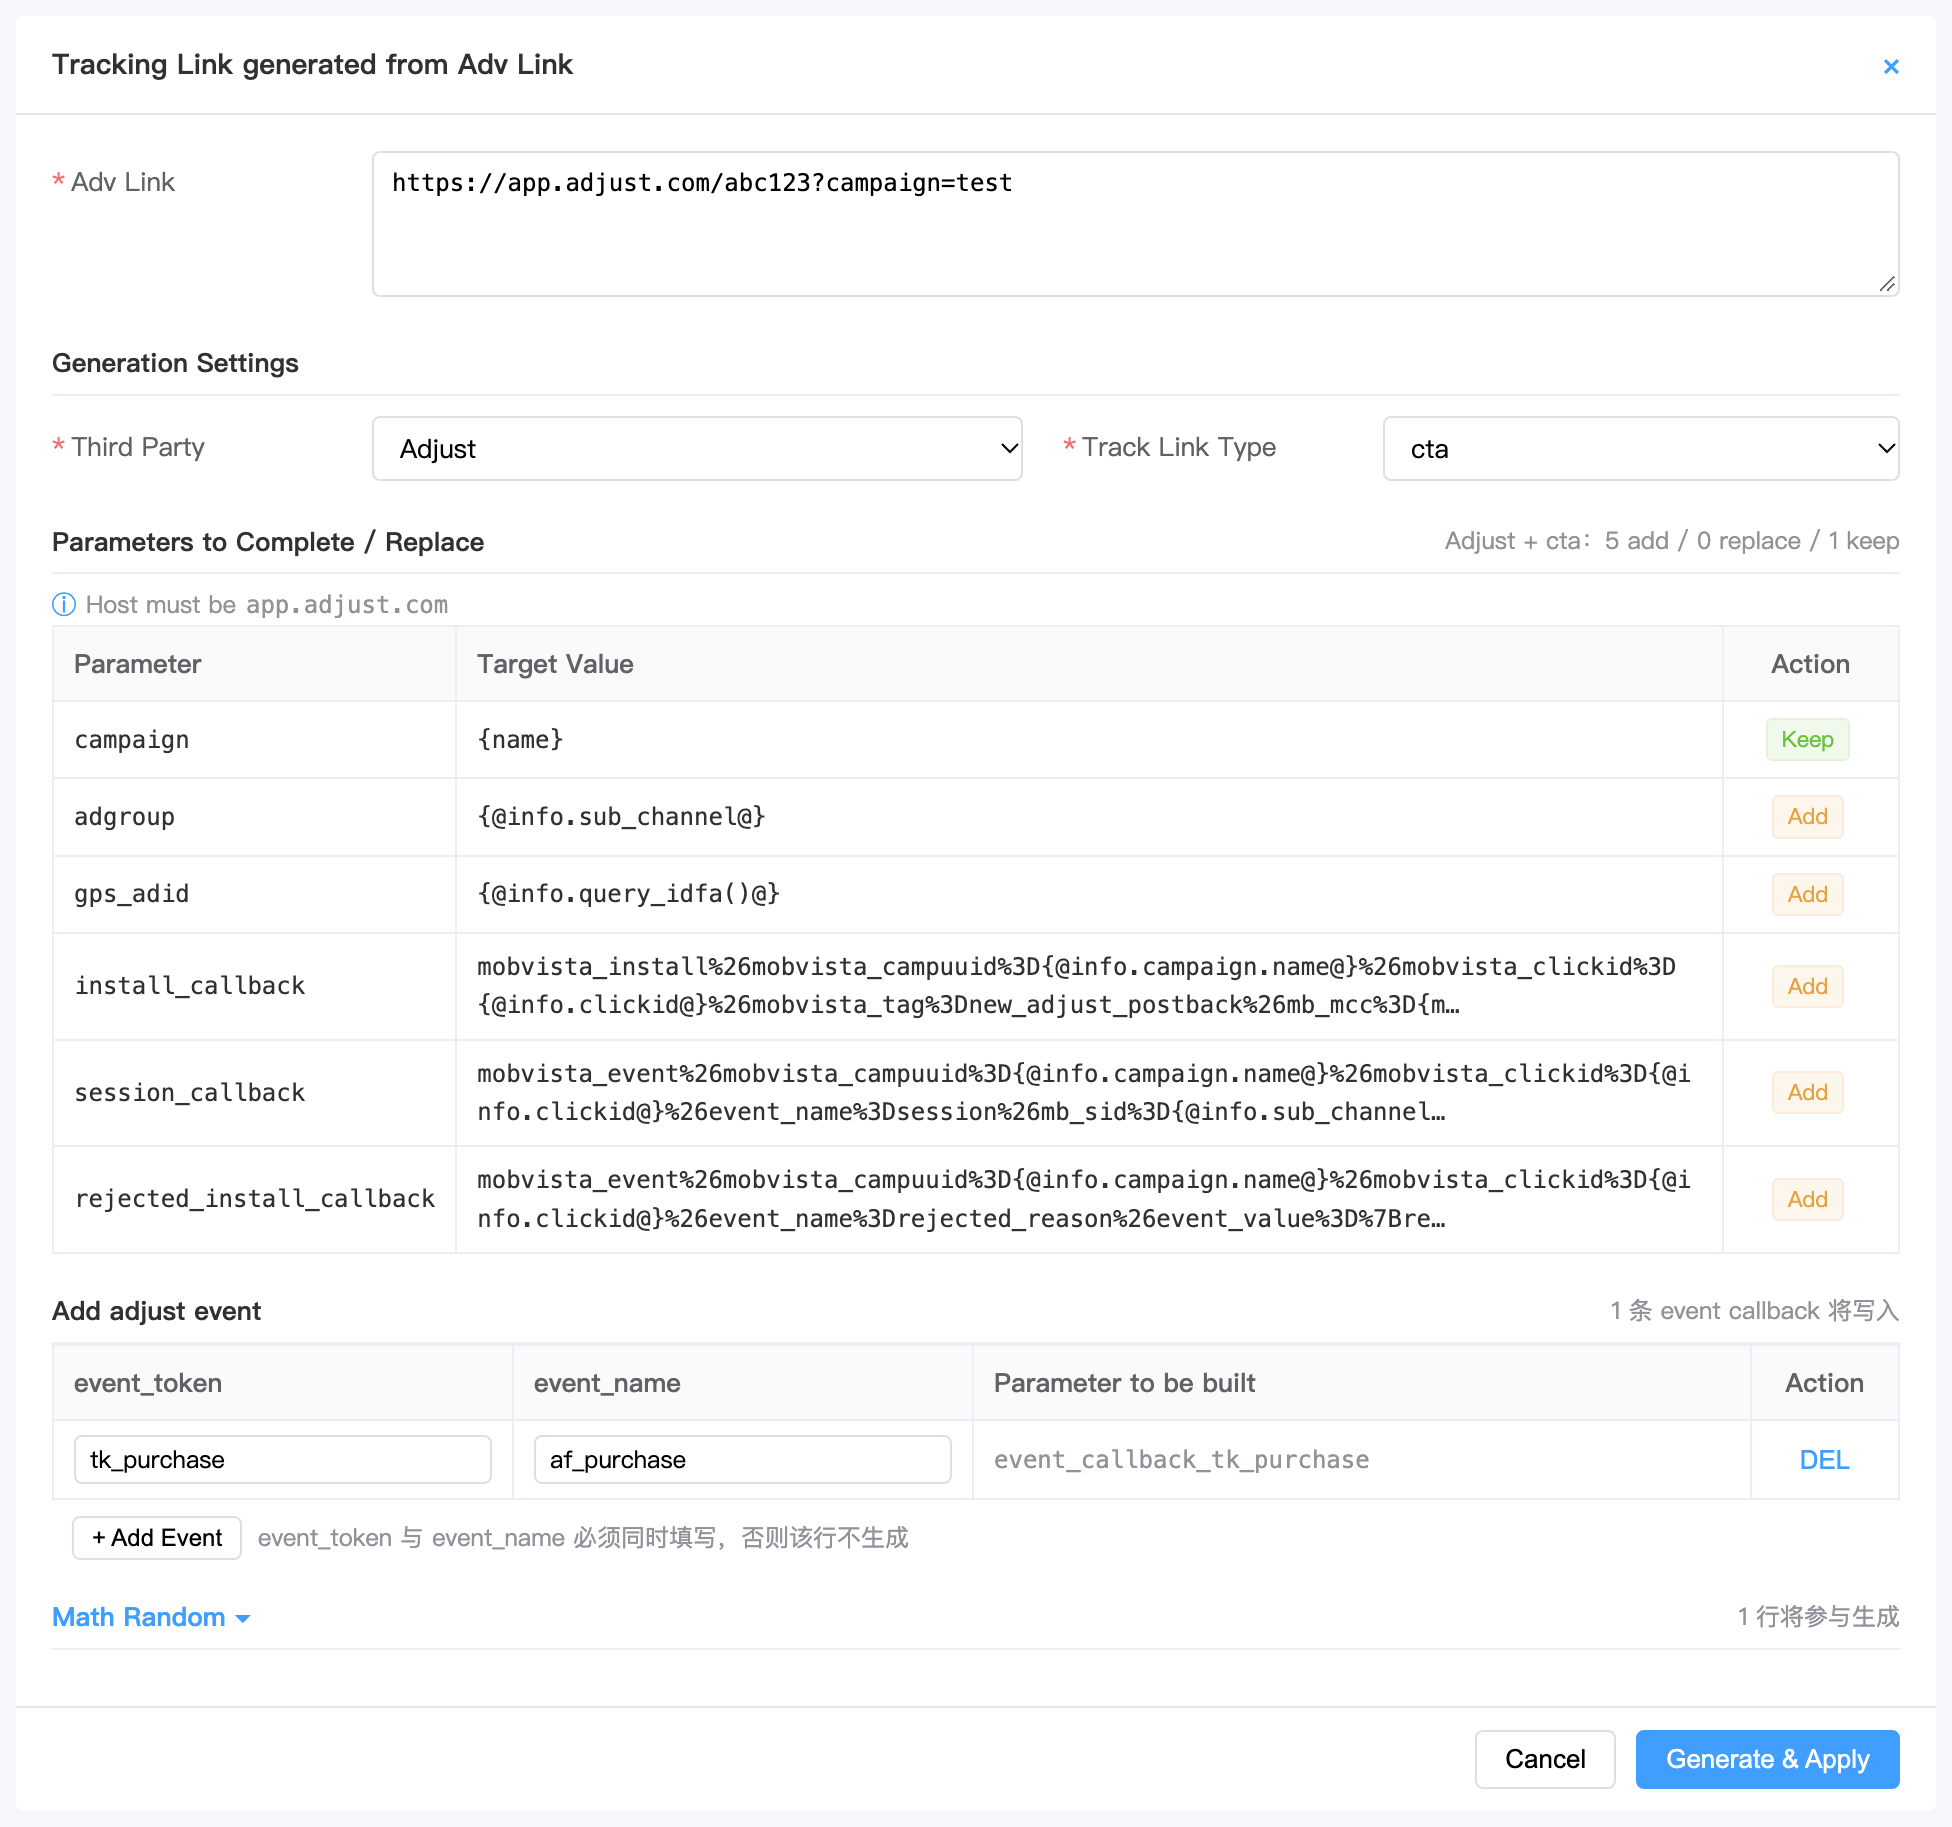
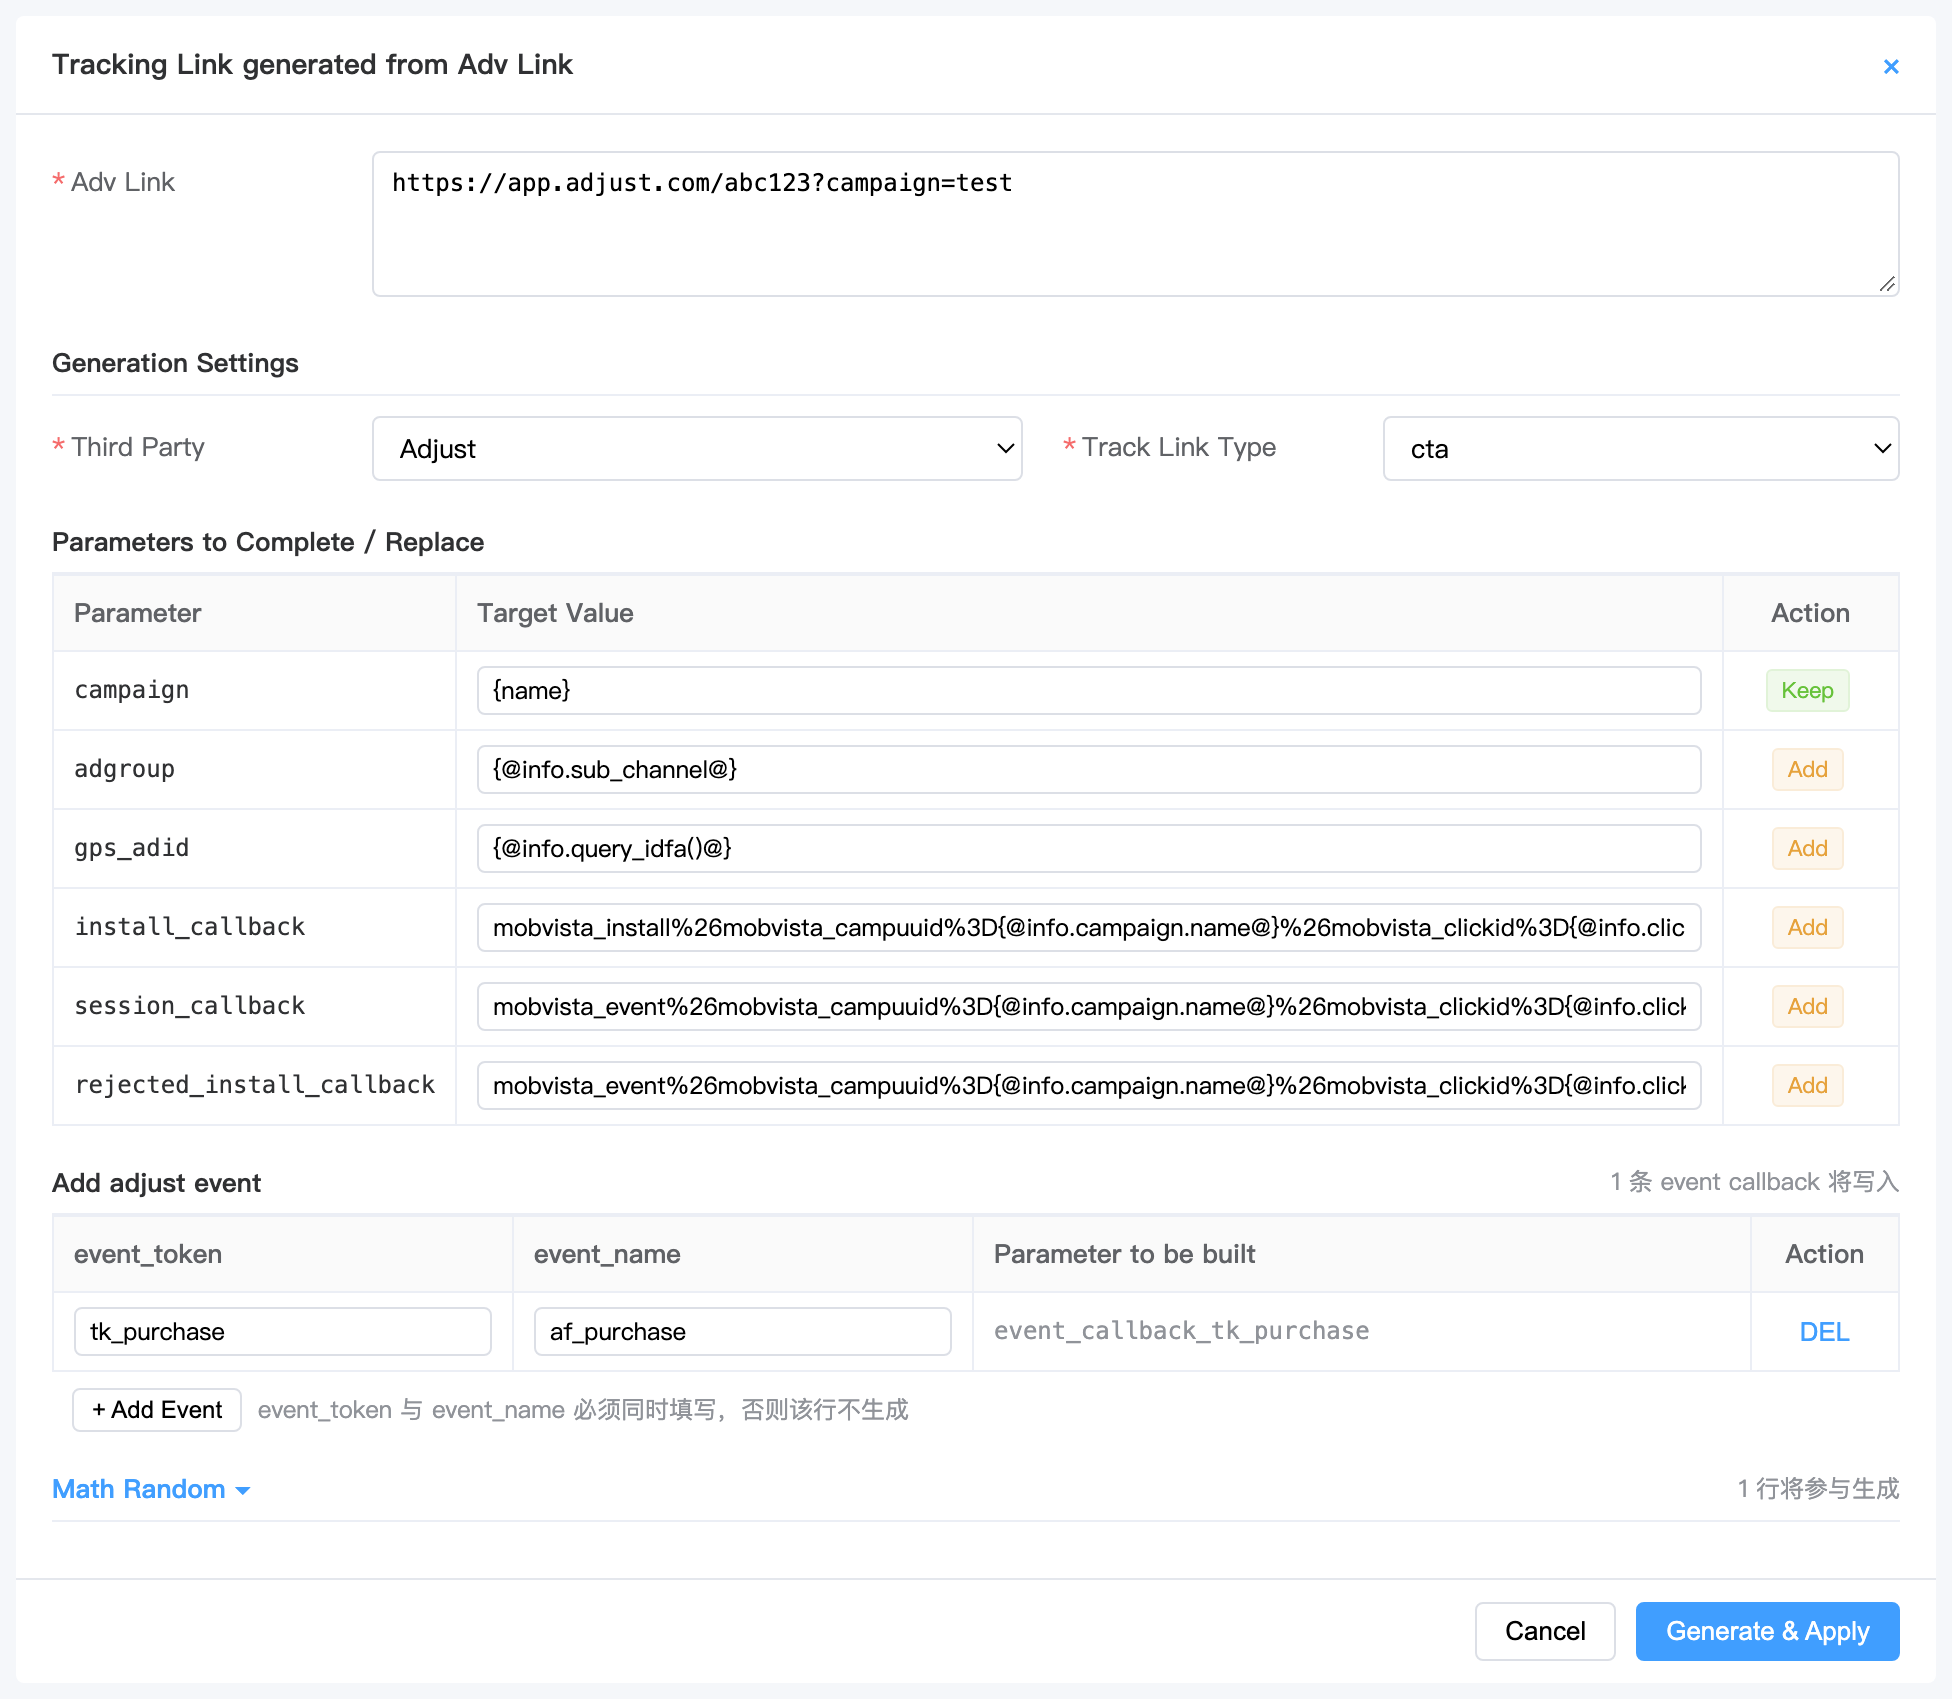
v6: single Auto-generated button inside Offer Name (aligns Offer UUID with Budget type), drop placeholder notes/New badge/parse count/host hint/sample-city note/column numbering, editable Target Value

diff --git a/create-offer/index.html b/create-offer/index.html
@@ -172,7 +172,7 @@ const SECS = [
   { k: 'settle',     name: 'Settlement Info',          note: 'Adv / Channel settlement split' },
   { k: 'cap',        name: 'Cap Info',                 note: 'Per-item OPEN switch' },
   { k: 'target',     name: 'Target Info',              note: 'Quick geo select + lazy region / city loading' },
-  { k: 'tracking',   name: 'Tracking Info',            note: 'Generate from Adv Link + parsing', nw: 1 },
+  { k: 'tracking',   name: 'Tracking Info',            note: 'Generate from Adv Link + parsing' },
   { k: 'creative',   name: 'Creative Info',            note: 'Relaxed checks + auto-crop' },
   { k: 'integration',name: 'Integration Info',         note: 'Auto-S2S click cap + cross-offer BT' },
 ];
@@ -355,7 +355,18 @@ function reqParams() {
   const base = (r.required || []).map((x) => Object.assign({}, x));
   /* engaged click / engaged view 的 clickid 取 extend_clickid */
   if (ext.clickid) base.forEach((x) => { if (x.k === 'clickid') x.v = ext.clickid; });
-  return base.concat(ext.extra || []);
+  /* 弹窗里手改过的目标值优先 */
+  const ov = (t.param_override || {})[t.third_party + '|' + t.track_link_type] || {};
+  return base.concat(ext.extra || []).map((x) => (ov[x.k] == null ? x : Object.assign({}, x, { v: ov[x.k] })));
+}
+/* 记下手改的目标值：按 Third Party + Track Link Type 分开存，切换组合不互相干扰 */
+function setParamTarget(k, v) {
+  const t = form.tracking;
+  const key = t.third_party + '|' + t.track_link_type;
+  t.param_override = t.param_override || {};
+  t.param_override[key] = t.param_override[key] || {};
+  t.param_override[key][k] = v;
+  openGenerate();
 }
 /* 该组合要求的域名：link type 上有定义就用它，否则回落到 MMP 的默认 click / view host */
 function wantHostOf(kind) {
@@ -475,7 +486,9 @@ const form = {
     },
     rand_custom: [],
     /* Add adjust event：仅 Third Party=Adjust 时展示，每行构建一条 event callback */
-    adj_events: [{ token:'', name:'' }] } ,
+    adj_events: [{ token:'', name:'' }],
+    /* 弹窗里手改过的参数目标值：{ 'appsflyer|cta': { af_click_lookback:'14d' } } */
+    param_override: {} } ,
   /* 自动对接：默认接入；渠道固定 mobpower_api_pub 仅展示，两个 cap 可编辑后带入对接
      cap 默认值文档标注「待确认」，这里先给演示值 */
   integration: { auto_channel:1, auto_channel_name:'mobpower_api_pub', click_cap:50000, channel_cap:20000 },
@@ -989,9 +1002,9 @@ function geoSelector() {
 
   let h = '<div class="geo3" style="grid-template-columns:270px 1fr 1.15fr">';
 
-  /* ---- ① Geo：勾选即 Target Geo，点击行下钻并加载 region ---- */
+  /* ---- Geo：勾选即 Target Geo，点击行下钻并加载 region ---- */
   const clist = COUNTRY_LIST.filter(([c, n]) => !qc || c.toLowerCase().includes(qc) || n.toLowerCase().includes(qc));
-  h += '<div><div class="ch"><span>① Geo</span></div>'
+  h += '<div><div class="ch"><span>Geo</span></div>'
     + '<input class="srch" placeholder="Search country code or name" value="' + esc(g3.qCountry) + '" oninput="g3.qCountry=this.value;render()">'
     + '<div class="cb">'
     + (clist.length ? clist.map(([c, n]) => {
@@ -1004,11 +1017,11 @@ function geoSelector() {
       }).join('') : '<div class="gi gray">No matching country</div>')
     + '</div></div>';
 
-  /* ---- ② Region：点国家才加载，加载即全选；点击行下钻并加载 city ---- */
+  /* ---- Region：点国家才加载，加载即全选；点击行下钻并加载 city ---- */
   const rs = regionsOf(cc);
   const regs = rs.filter((r) => !qr || r.name.includes(qr));
   const loadedR = !!t.loadedR[cc];
-  h += '<div><div class="ch"><span>② Region</span>'
+  h += '<div><div class="ch"><span>Region</span>'
     /* 评审反馈：region 选择器右上角单独一个开关 */
     + '<label class="chk" style="margin:0;font-size:11px;white-space:nowrap" title="取消B类渠道Region和City定向限制">'
     + '<input type="checkbox" ' + (t.cancel_b_limit ? 'checked' : '')
@@ -1030,12 +1043,12 @@ function geoSelector() {
     }).join('');
   h += '</div></div>';
 
-  /* ---- ③ City：最低层级，只勾选不展示子层级情况 ---- */
+  /* ---- City：最低层级，只勾选不展示子层级情况 ---- */
   if (curR && !t.loadedC[cc + '|' + curR.rid]) loadCities(cc, curR.rid);
   const loadedC = !!curR;
   const cities = curR ? curR.cities.filter((x) => !qy || x.name.includes(qy)) : [];
   const picked = curR ? (m[curR.rid] === 'all' ? curR.cities.map((x) => x.id) : (m[curR.rid] || [])) : [];
-  h += '<div><div class="ch"><span>③ City</span>'
+  h += '<div><div class="ch"><span>City</span>'
     /* 评审反馈：city 选择器右上角单独一个开关 */
     + '<label class="chk" style="margin:0;font-size:11px;white-space:nowrap" title="开启Region和City定向限制，对点击进行过滤">'
     + '<input type="checkbox" ' + (t.geo_click_filter ? 'checked' : '')
@@ -1049,7 +1062,7 @@ function geoSelector() {
     h += cities.map((x) => '<div class="gi"><label class="chk" style="margin:0;flex:1">'
       + '<input type="checkbox" ' + (picked.includes(x.id) ? 'checked' : '') + ' onchange="pickCity(\'' + cc + '\',\'' + curR.rid + '\',\'' + x.id + '\',this.checked)">'
       + esc(x.name) + '</label><span class="mt mono gray">' + x.id + '</span></div>').join('');
-    h += '<div class="gi gray small">Prototype ships ' + curR.cities.length + ' sample cities of the ' + curR.total + ' in this region</div>';
+
   }
   h += '</div></div>';
 
@@ -1258,7 +1271,6 @@ function paramPlanTable() {
   const cur = {};
   if (p.ok) (p.params || []).forEach((x) => { cur[x.k] = x.v; });
   const list = reqParams().filter((x) => !x.os || x.os === primaryOS());
-  const host = wantHostOf('click');
   const plan = list.map((x) => {
     const have = Object.prototype.hasOwnProperty.call(cur, x.k);
     /* mode=fill 的参数只要存在就不动；其余要求值与目标一致 */
@@ -1266,19 +1278,15 @@ function paramPlanTable() {
     if (have) act = (x.mode === 'fill' || cur[x.k] === x.v) ? 'keep' : 'replace';
     return { k:x.k, v:x.v, act:act, now: have ? cur[x.k] : '' };
   });
-  const nAdd = plan.filter((x) => x.act === 'add').length;
-  const nRep = plan.filter((x) => x.act === 'replace').length;
   const badge = { add:'<span class="tag o">Add</span>', replace:'<span class="tag o">Replace</span>', keep:'<span class="tag g">Keep</span>' };
-  return '<div class="sec"><div class="sh">Parameters to Complete / Replace'
-    + '<span class="small gray" style="font-weight:400">' + MMPS[t.third_party] + ' + ' + (trackTypes()[t.track_link_type] || t.track_link_type)
-    + '：' + nAdd + ' add / ' + nRep + ' replace / ' + (plan.length - nAdd - nRep) + ' keep</span></div>'
+  return '<div class="sec"><div class="sh">Parameters to Complete / Replace</div>'
     + '<div class="sb" style="padding:0">'
-    + (host ? '<div class="tip">Host must be <span class="mono">' + esc(host) + '</span>'
-        + (p.ok && p.host && p.host !== host ? '，当前 Adv Link 是 <span class="mono">' + esc(p.host) + '</span>，生成时会替换' : '') + '</div>' : '')
     + '<table class="t"><thead><tr><th style="width:190px">Parameter</th><th>Target Value</th>'
     + '<th style="width:88px" class="ct">Action</th></tr></thead><tbody>'
     + plan.map((x) => '<tr><td class="mono small">' + esc(x.k) + '</td>'
-        + '<td class="mono small brk">' + esc(x.v.length > 150 ? x.v.slice(0, 150) + '…' : x.v)
+        /* Target Value 可直接改，改动按参数名记在 param_override 里，生成时以改后的值为准 */
+        + '<td><input type="text" class="mono" value="' + esc(x.v) + '"'
+        + ' onchange="setParamTarget(\'' + esc(x.k) + '\',this.value)">'
         + (x.act === 'replace' ? '<div class="small gray">当前：' + esc(String(x.now).slice(0, 60)) + '</div>' : '')
         + '</td><td class="ct">' + badge[x.act] + '</td></tr>').join('')
     + '</tbody></table></div></div>';
@@ -1683,18 +1691,17 @@ function cardBasic() {
   const nDup = nameDup(b.offer_name), uDup = uuidDup(b.offer_uuid);
   let h = cardHead('basic', 'Basic Info');
 
-  /* Offer Name 与 Offer UUID 两列并排，中间一列放双向转换按钮 */
-  h += '<div class="g2" style="grid-template-columns:1.16fr 104px 1fr">'
-    + '<div class="fi">' + L('Offer Name', 1) + '<div class="c">'
-    + inp('basic.offer_name', b.offer_name, { ph:'按需求命名，一般大写英文' })
+  /* Offer Name 与 Offer UUID 两列并排，列宽与下一行一致，保证 Offer UUID 与 Budget type 同一起点
+     双向转换按钮收进 Offer Name 字段内部，不单独占一列 */
+  h += '<div class="g2">'
+    + '<div class="fi">' + L('Offer Name', 1) + '<div class="c"><div class="row">'
+    + '<span style="flex:1">' + inp('basic.offer_name', b.offer_name, { ph:'按需求命名，一般大写英文' }) + '</span>'
+    + '<button class="btn sm" style="white-space:nowrap" title="Offer Name → UUID：大写字母转小写、其余字符转下划线；只填了 UUID 时反推 Offer Name"'
+    + ' onclick="autoNameUuid()">Auto-generated</button>'
     + ii('Globally unique, usually uppercase; differs from Offer UUID only in case and separators')
+    + '</div>'
     + (nDup ? '<div class="tip err">Offer Name already exists</div>' : '')
     + '</div></div>'
-    /* 两字段之间的转换入口：name → uuid 大写转小写、非字母数字转下划线；uuid → name 反推 */
-    + '<div style="display:flex;flex-direction:column;gap:4px;align-items:stretch;padding-top:2px">'
-    + '<button class="btn sm" title="Offer Name → UUID：大写字母转小写，其余字符转下划线" onclick="syncUuid()">Name → UUID</button>'
-    + '<button class="btn sm" title="Offer UUID → Offer Name：下划线转空格并转大写" onclick="syncName()">UUID → Name</button>'
-    + '</div>'
     + '<div class="fi">' + L('Offer UUID', 1) + '<div class="c">'
     + inp('basic.offer_uuid', b.offer_uuid, { cls:'mono', ph:'offer唯一标识，按需求命名，一般小写英文' })
     + ii('Globally unique identifier used to look up the offer')
@@ -1816,8 +1823,7 @@ function cardSettle() {
      文档只给了截图没给控件描述，这里按字段名推测：开关 + 最低毛利率 + 不管控渠道名单 */
   h += '<div class="row" style="margin-top:12px">'
     + '<button class="btn sm" onclick="openMargin=!openMargin;render()">'
-    + (openMargin ? 'Hide Margin-control Details ▴' : 'Show Margin-control Details ▾') + '</button>'
-    + '<span class="small gray">按截图推测的占位结构，待产品确认</span></div>'
+    + (openMargin ? 'Hide Margin-control Details ▴' : 'Show Margin-control Details ▾') + '</button></div>'
     + (openMargin
       ? '<div class="sec" style="margin-top:8px"><div class="sb">'
         + '<div class="fi">' + L('margin control', 1) + '<div class="c"><div class="row">'
@@ -2094,7 +2100,7 @@ function paramTable(kind, p) {
       }).join('')
     + '</tbody></table></div></div>'
     + '<div class="row" style="margin-top:8px"><button class="btn sm" onclick="addParam(\'' + kind + '\')">+ Add Parameter</button>'
-    + '<span class="small gray">' + p.params.length + ' parameters parsed, in link order</span></div>';
+    + '</div>';
   return h;
 }
 /* Async Flow 三件套：勾 NO 时下面两个字段整体隐藏，勾 YES 才展开 */
@@ -2258,7 +2264,7 @@ function renderNav() {
   $('#nav').innerHTML = '<div class="nt">Modules</div>' + SECS.map((s) => {
     const b = navBadge(s.k);
     return '<a class="ni' + (curSec === s.k ? ' on' : '') + '" onclick="goSec(\'' + s.k + '\')">'
-      + esc(s.name) + (s.nw ? ' <span class="tag nw">New</span>' : '')
+      + esc(s.name)
       + '<span class="bd ' + b.cls + '">' + esc(b.t) + '</span></a>';
   }).join('');
 }
